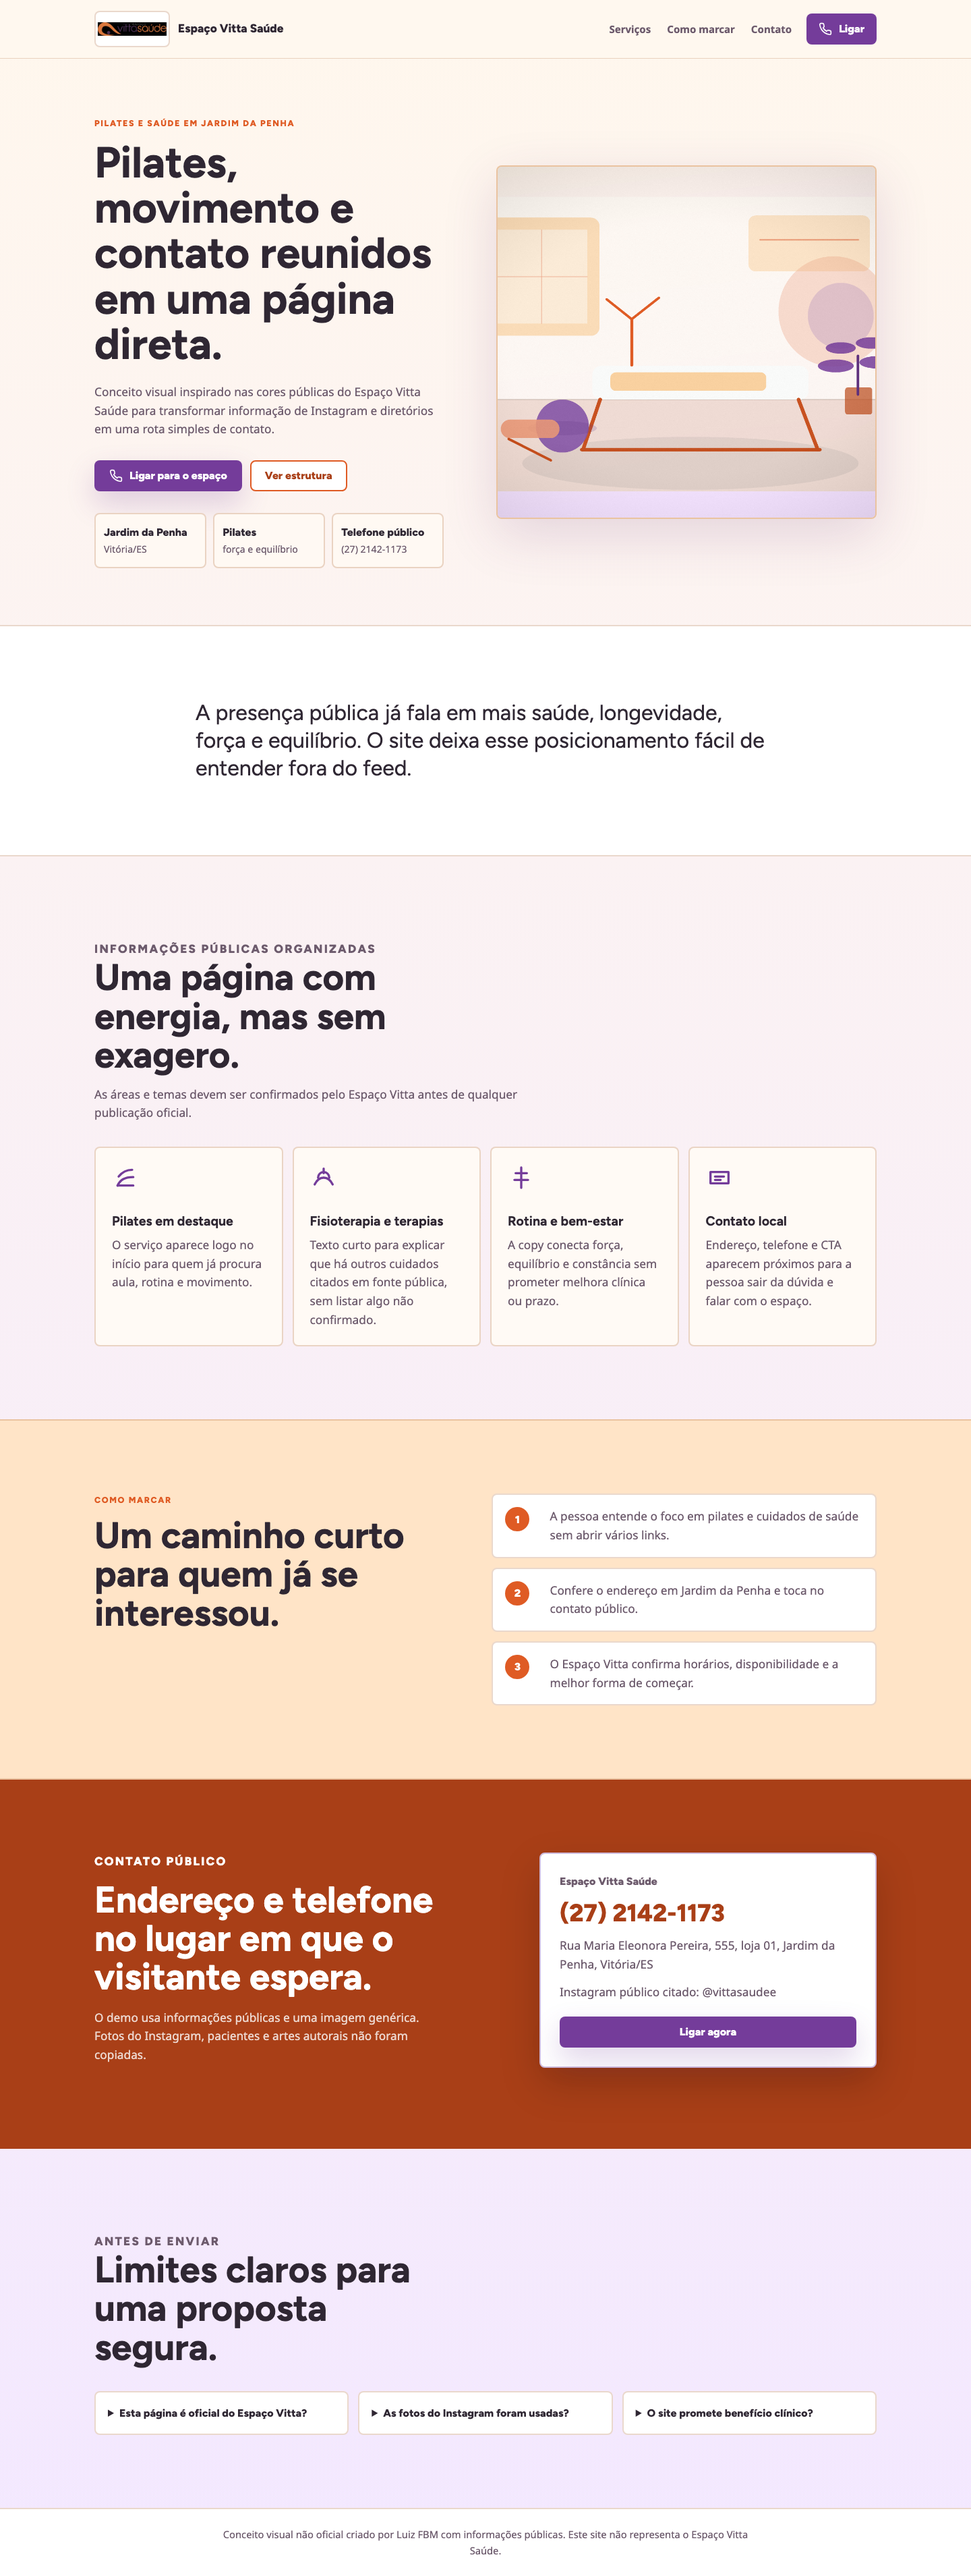
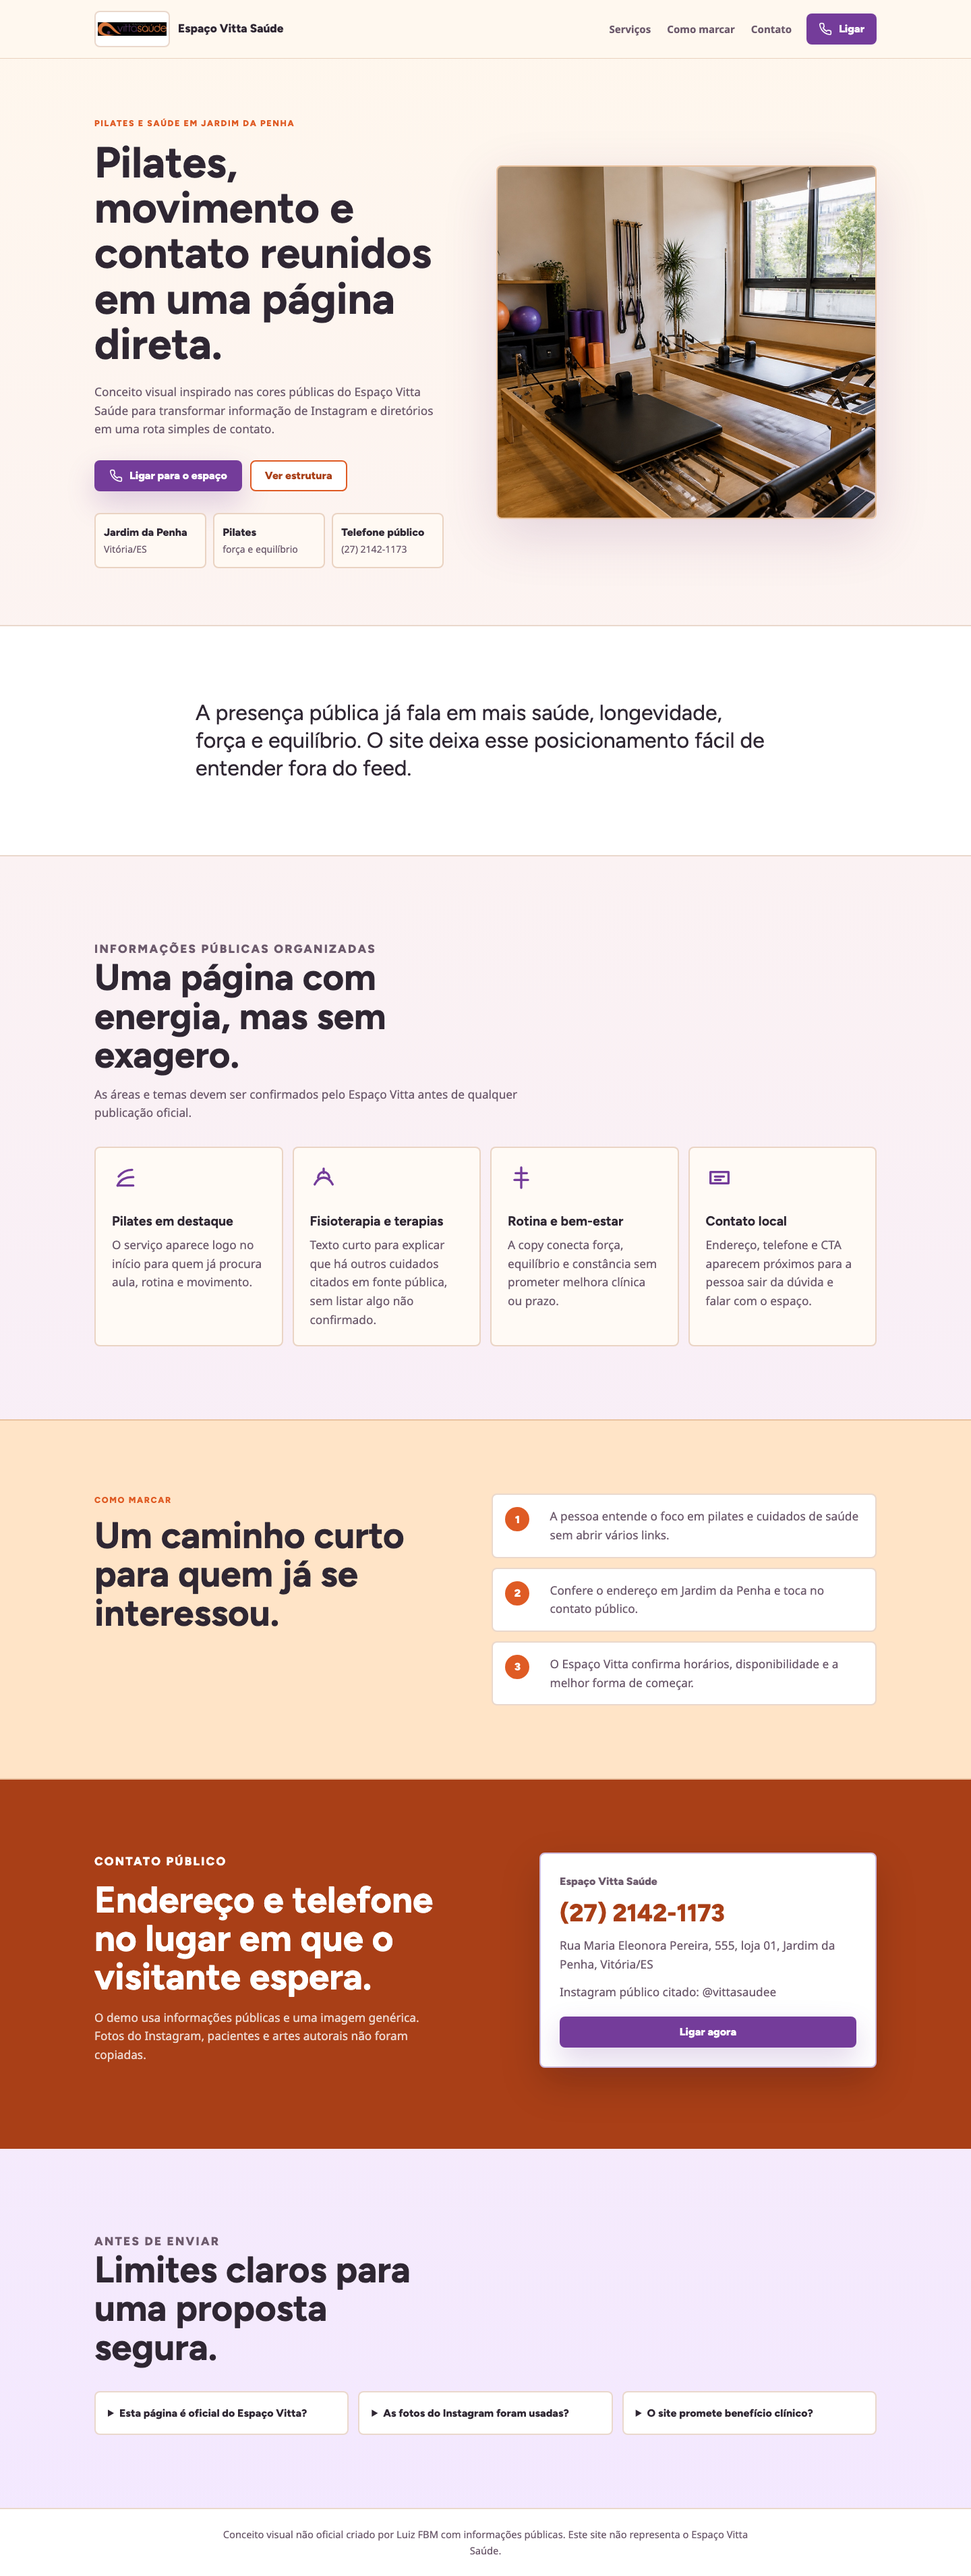
Replace generic demo heroes with realistic clinic photos

Changed region(s): [[0.5, 0.0624, 0.9062, 0.2182]]

diff --git a/demos/fisiohealth-clinica-fisioterapia-pilates/index.html b/demos/fisiohealth-clinica-fisioterapia-pilates/index.html
@@ -83,7 +83,7 @@
         </div>
 
         <div class="hero-media reveal">
-          <img src="assets/hero-fisiohealth.png" alt="Ilustração raster de uma sala de fisioterapia e pilates sem pessoas">
+          <img src="assets/hero-fisiohealth.jpg" alt="Imagem fotográfica de uma sala de fisioterapia e pilates sem pessoas">
         </div>
       </div>
     </section>

diff --git a/demos/ceo-clinica-especialidades-odontologicas/index.html b/demos/ceo-clinica-especialidades-odontologicas/index.html
@@ -83,7 +83,7 @@
         </div>
 
         <div class="hero-media reveal">
-          <img src="assets/hero-ceo-odontologia.png" alt="Ilustração raster de uma clínica odontológica sem pessoas">
+          <img src="assets/hero-ceo-odontologia.jpg" alt="Imagem fotográfica de uma clínica odontológica sem pessoas">
         </div>
       </div>
     </section>

diff --git a/demos/essencesaude/index.html b/demos/essencesaude/index.html
@@ -83,7 +83,7 @@
         </div>
 
         <div class="hero-media reveal">
-          <img src="assets/hero-essence.png" alt="Ilustração raster de uma sala de terapias integrativas sem pessoas">
+          <img src="assets/hero-essence.jpg" alt="Imagem fotográfica de uma sala de terapias integrativas sem pessoas">
         </div>
       </div>
     </section>

diff --git a/demos/viva-odontologia/index.html b/demos/viva-odontologia/index.html
@@ -83,7 +83,7 @@
         </div>
 
         <div class="hero-media reveal">
-          <img src="assets/hero-viva-odontologia.png" alt="Ilustração raster de uma sala odontológica sem pessoas">
+          <img src="assets/hero-viva-odontologia.jpg" alt="Imagem fotográfica de uma sala odontológica sem pessoas">
         </div>
       </div>
     </section>

diff --git a/demos/espaco-vitta-saude/index.html b/demos/espaco-vitta-saude/index.html
@@ -83,7 +83,7 @@
         </div>
 
         <div class="hero-media reveal">
-          <img src="assets/hero-vitta.png" alt="Ilustração raster de um estúdio de pilates sem pessoas">
+          <img src="assets/hero-vitta.jpg" alt="Imagem fotográfica de um estúdio de pilates sem pessoas">
         </div>
       </div>
     </section>
